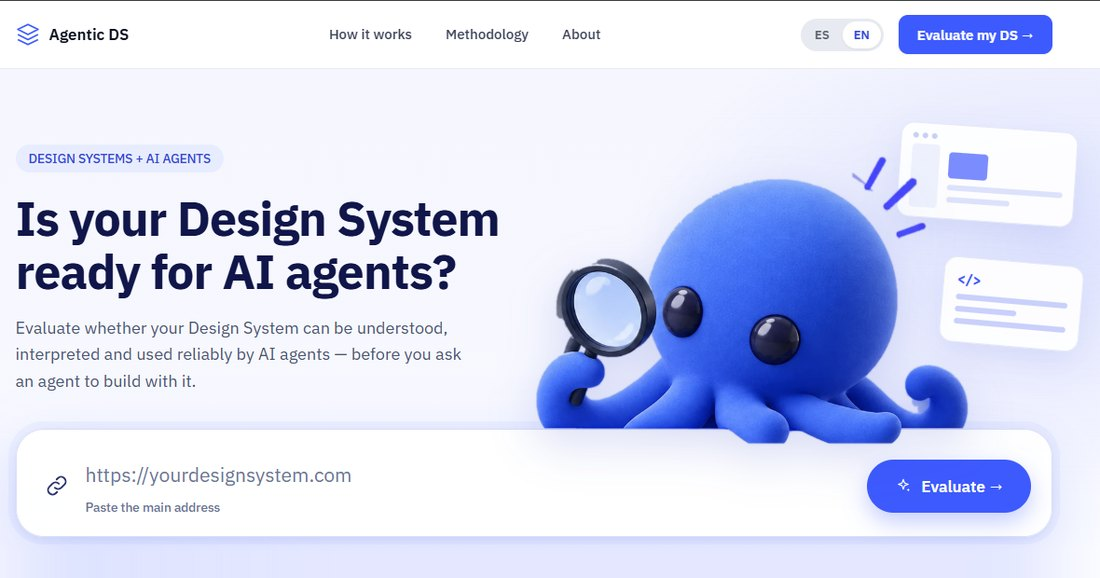
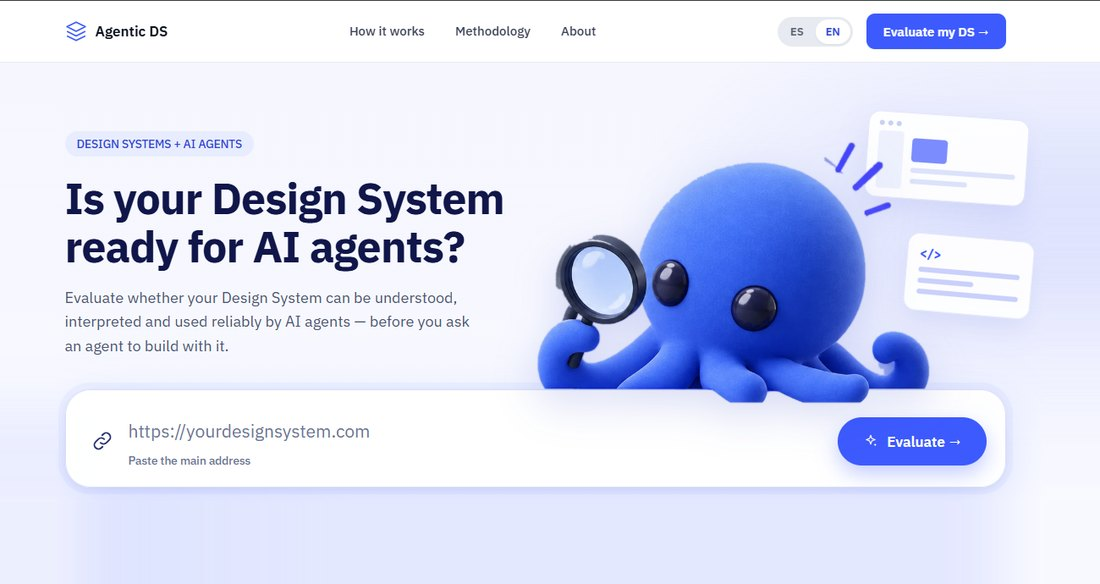
Agentic DS: capturas con margen alrededor
Claude-Session: https://claude.ai/code/session_01SinW434moo6w63yc6Ftepq

diff --git a/index.html b/index.html
@@ -1330,8 +1330,8 @@
       <p class="lab-desc" data-en>Design Systems are written for people; an agent has to find components, tokens and usage rules on its own. I built a tool that measures that readiness across six dimensions — access, tokens, components and API, semantics, patterns and documentation. The score comes from fixed rules, no AI involved. And a page that can't be read doesn't count as zero: it's marked as not evaluable.</p>
       <p class="lab-desc" data-es>Los Design Systems se escriben para personas; un agente necesita encontrar por su cuenta componentes, tokens y reglas de uso. Construí una herramienta que mide esa preparación en seis dimensiones: acceso, tokens, componentes y API, semántica, patrones y documentación. El puntaje sale de reglas fijas, sin IA de por medio. Y si una página no se puede leer, no cuenta como cero: queda como "no evaluable".</p>
       <figure class="lab-visual lab-visual-shot">
-        <img src="img/lab-agentic-ds-en.jpg" width="1100" height="578" loading="lazy" alt="Agentic DS home page: a field to paste a Design System URL and evaluate it" data-en>
-        <img src="img/lab-agentic-ds.jpg" width="1100" height="578" loading="lazy" alt="Portada de la app Agentic DS: un campo para pegar la URL de un Design System y evaluarlo" data-es>
+        <img src="img/lab-agentic-ds-en.jpg" width="1100" height="584" loading="lazy" alt="Agentic DS home page: a field to paste a Design System URL and evaluate it" data-en>
+        <img src="img/lab-agentic-ds.jpg" width="1100" height="584" loading="lazy" alt="Portada de la app Agentic DS: un campo para pegar la URL de un Design System y evaluarlo" data-es>
       </figure>
       <div class="lab-status">
         <div class="status-dot"></div>

diff --git a/lab.html b/lab.html
@@ -378,8 +378,8 @@
 
     <div class="exp-right reveal reveal-delay-1">
       <figure class="exp-shot">
-        <img src="img/lab-agentic-ds-en.jpg" width="1100" height="578" loading="lazy" alt="Agentic DS home page: a field to paste a Design System URL and evaluate it" data-en>
-        <img src="img/lab-agentic-ds.jpg" width="1100" height="578" loading="lazy" alt="Portada de la app Agentic DS: un campo para pegar la URL de un Design System y evaluarlo" data-es>
+        <img src="img/lab-agentic-ds-en.jpg" width="1100" height="584" loading="lazy" alt="Agentic DS home page: a field to paste a Design System URL and evaluate it" data-en>
+        <img src="img/lab-agentic-ds.jpg" width="1100" height="584" loading="lazy" alt="Portada de la app Agentic DS: un campo para pegar la URL de un Design System y evaluarlo" data-es>
       </figure>
       <div class="exp-visual">
         <div class="music-visual">
